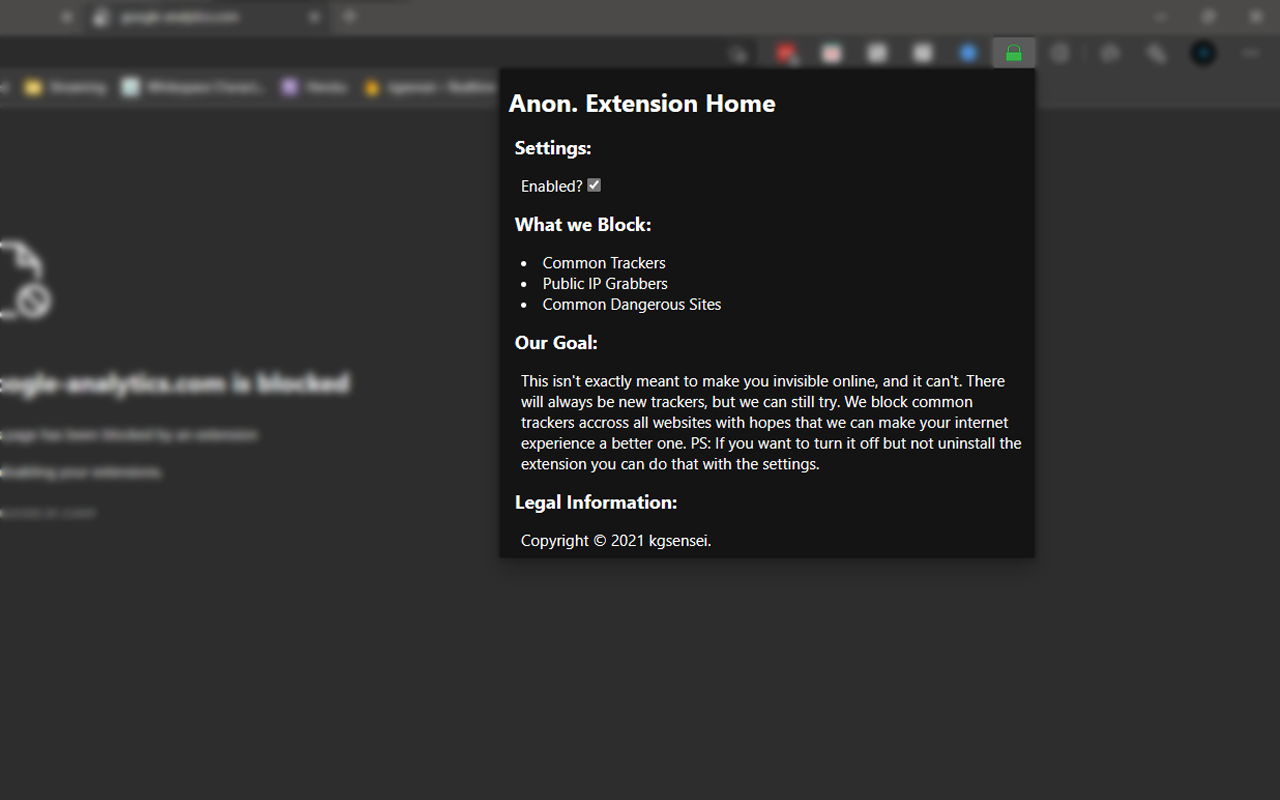
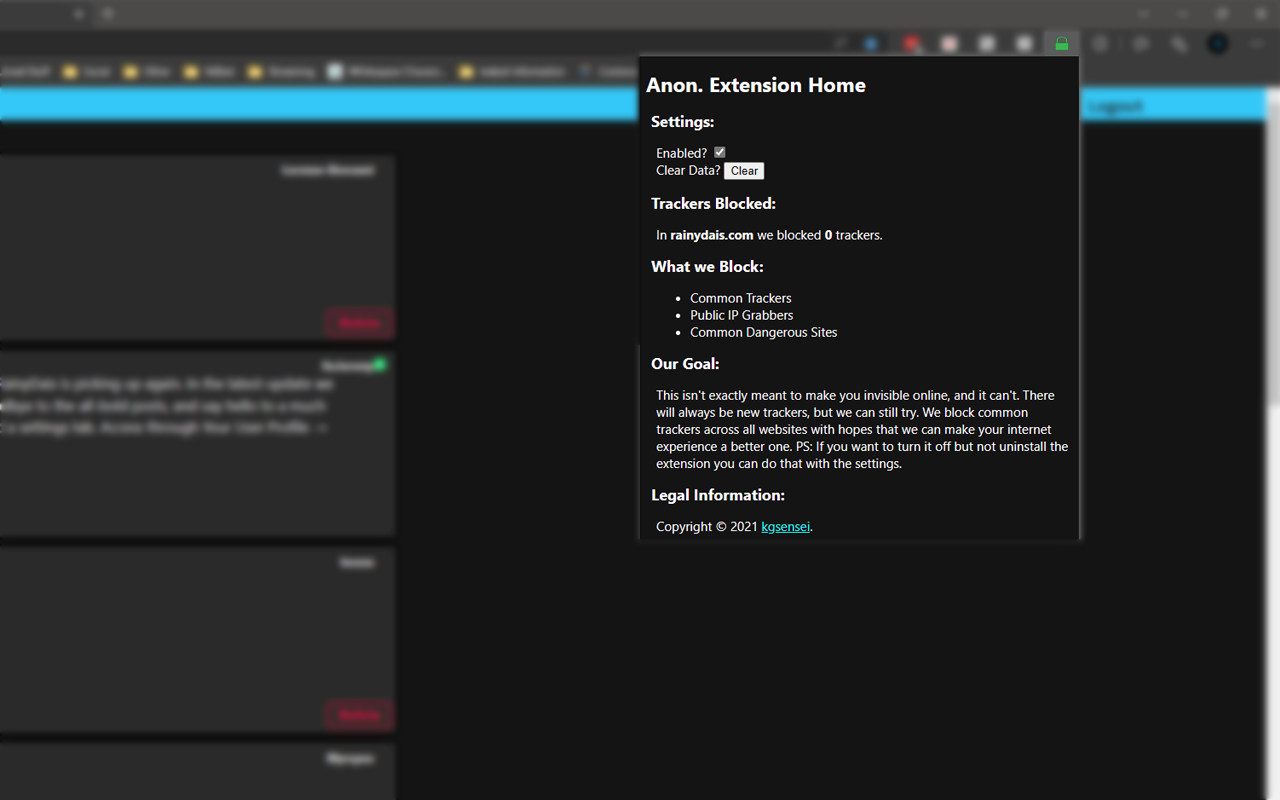
test 1.2

diff --git a/base_anon_home.html b/base_anon_home.html
@@ -29,7 +29,7 @@
 			</div>
 			<h2>__MSG_trackers_title__</h2>
 			<div class="paddingleft" style="font-size:15px;">
-				__MSG_in_text__<b><span id="url_place">{Website}</span></b>__MSG_we_blocked_text__<b><span id="trackers_place">1</span></b>__MSG_trackers_text__
+				__MSG_in_text__<b><span id="url_place">{Website}</span></b>__MSG_we_blocked_text__<b><span id="trackers_place">{Int}</span></b>__MSG_trackers_text__
 			</div>
 			<h2>__MSG_block_list_title__</h2>
 			<div class="paddingleft" style="font-size:15px;">
@@ -41,11 +41,11 @@
 			</div>
 			<h2>__MSG_goal_title__</h2>
 			<div class="paddingleft" style="font-size:15px;">
-				<p></p>
+				<p>__MSG_goal_text__</p>
 			</div>
 			<h2>__MSG_legal_title__</h2>
 			<div class="paddingleft">
-				<div style="font-size:15px;">__MSG_copyright_text__<a href="kgsensei.dev" style="color:aqua">__MSG_kgsensei_text__</a>.</div>
+				<div style="font-size:15px;">__MSG_copyright_text__<a href="https://kgsensei.dev" target="_blank" style="color:aqua">__MSG_kgsensei_text__</a>.</div>
 			</div>
 		</div>
 		<script src="homepage.js"></script>

diff --git a/homepage.js b/homepage.js
@@ -3,10 +3,12 @@ checkedvar=localStorage.getItem('enabled')
 if(checkedvar==null||checkedvar==undefined){
 	localStorage.setItem('enabled','yes')
 	document.getElementById("enabled_checkbox").checked=1
-}else{
+}
+
+$(document).ready(function(){
 	if(checkedvar=='yes'){document.getElementById("enabled_checkbox").checked=1}
 	if(checkedvar=='no'){document.getElementById("enabled_checkbox").checked=0}
-}
+})
 
 $("#enabled_checkbox").click(function(){
 	element=document.getElementById("enabled_checkbox")
